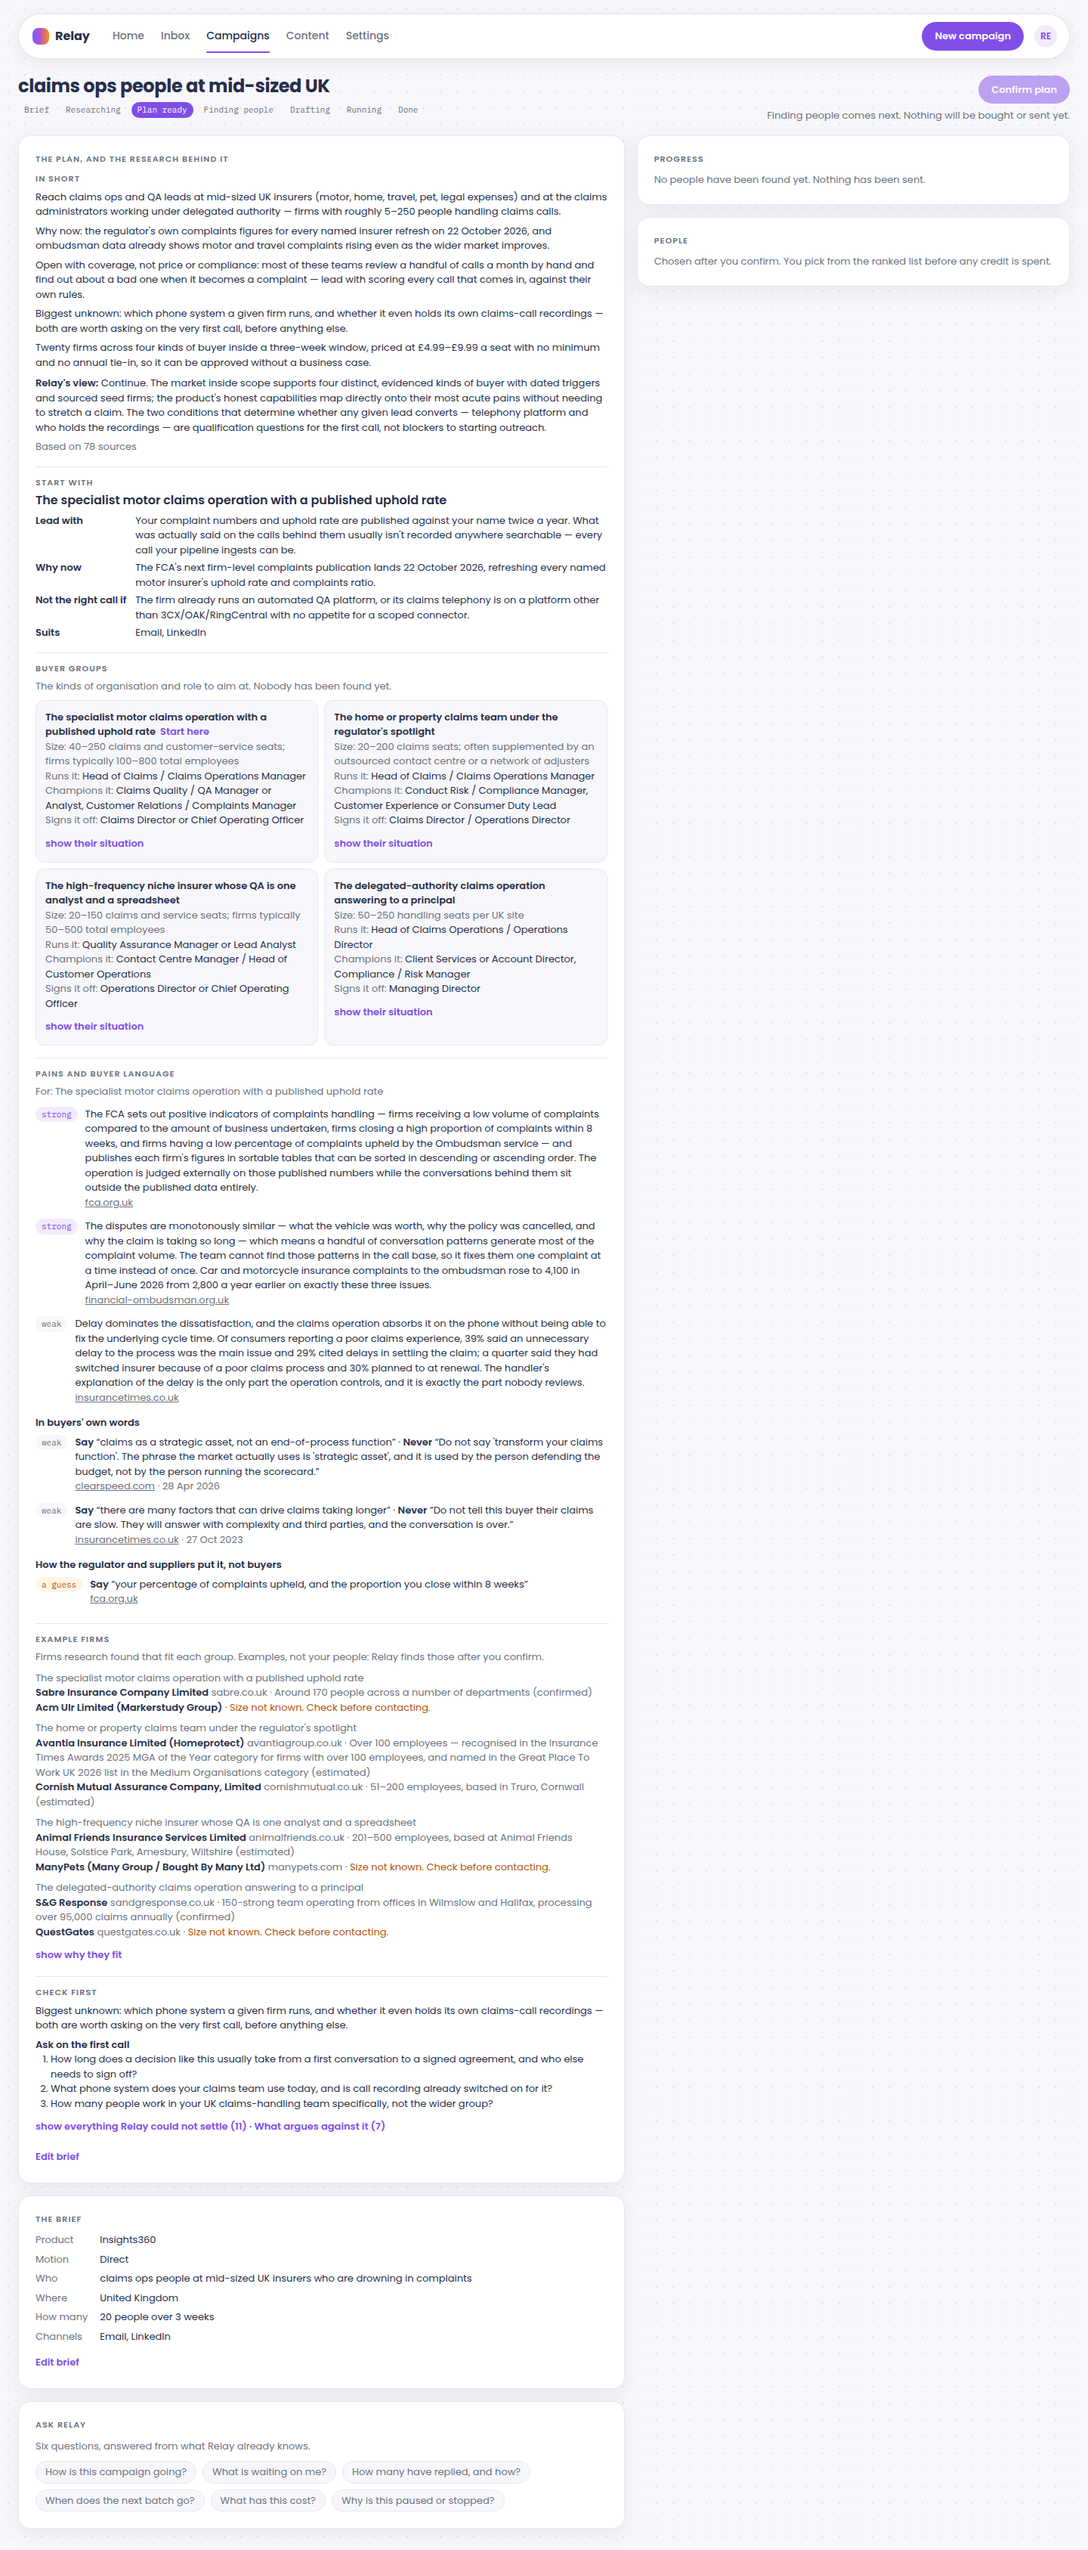
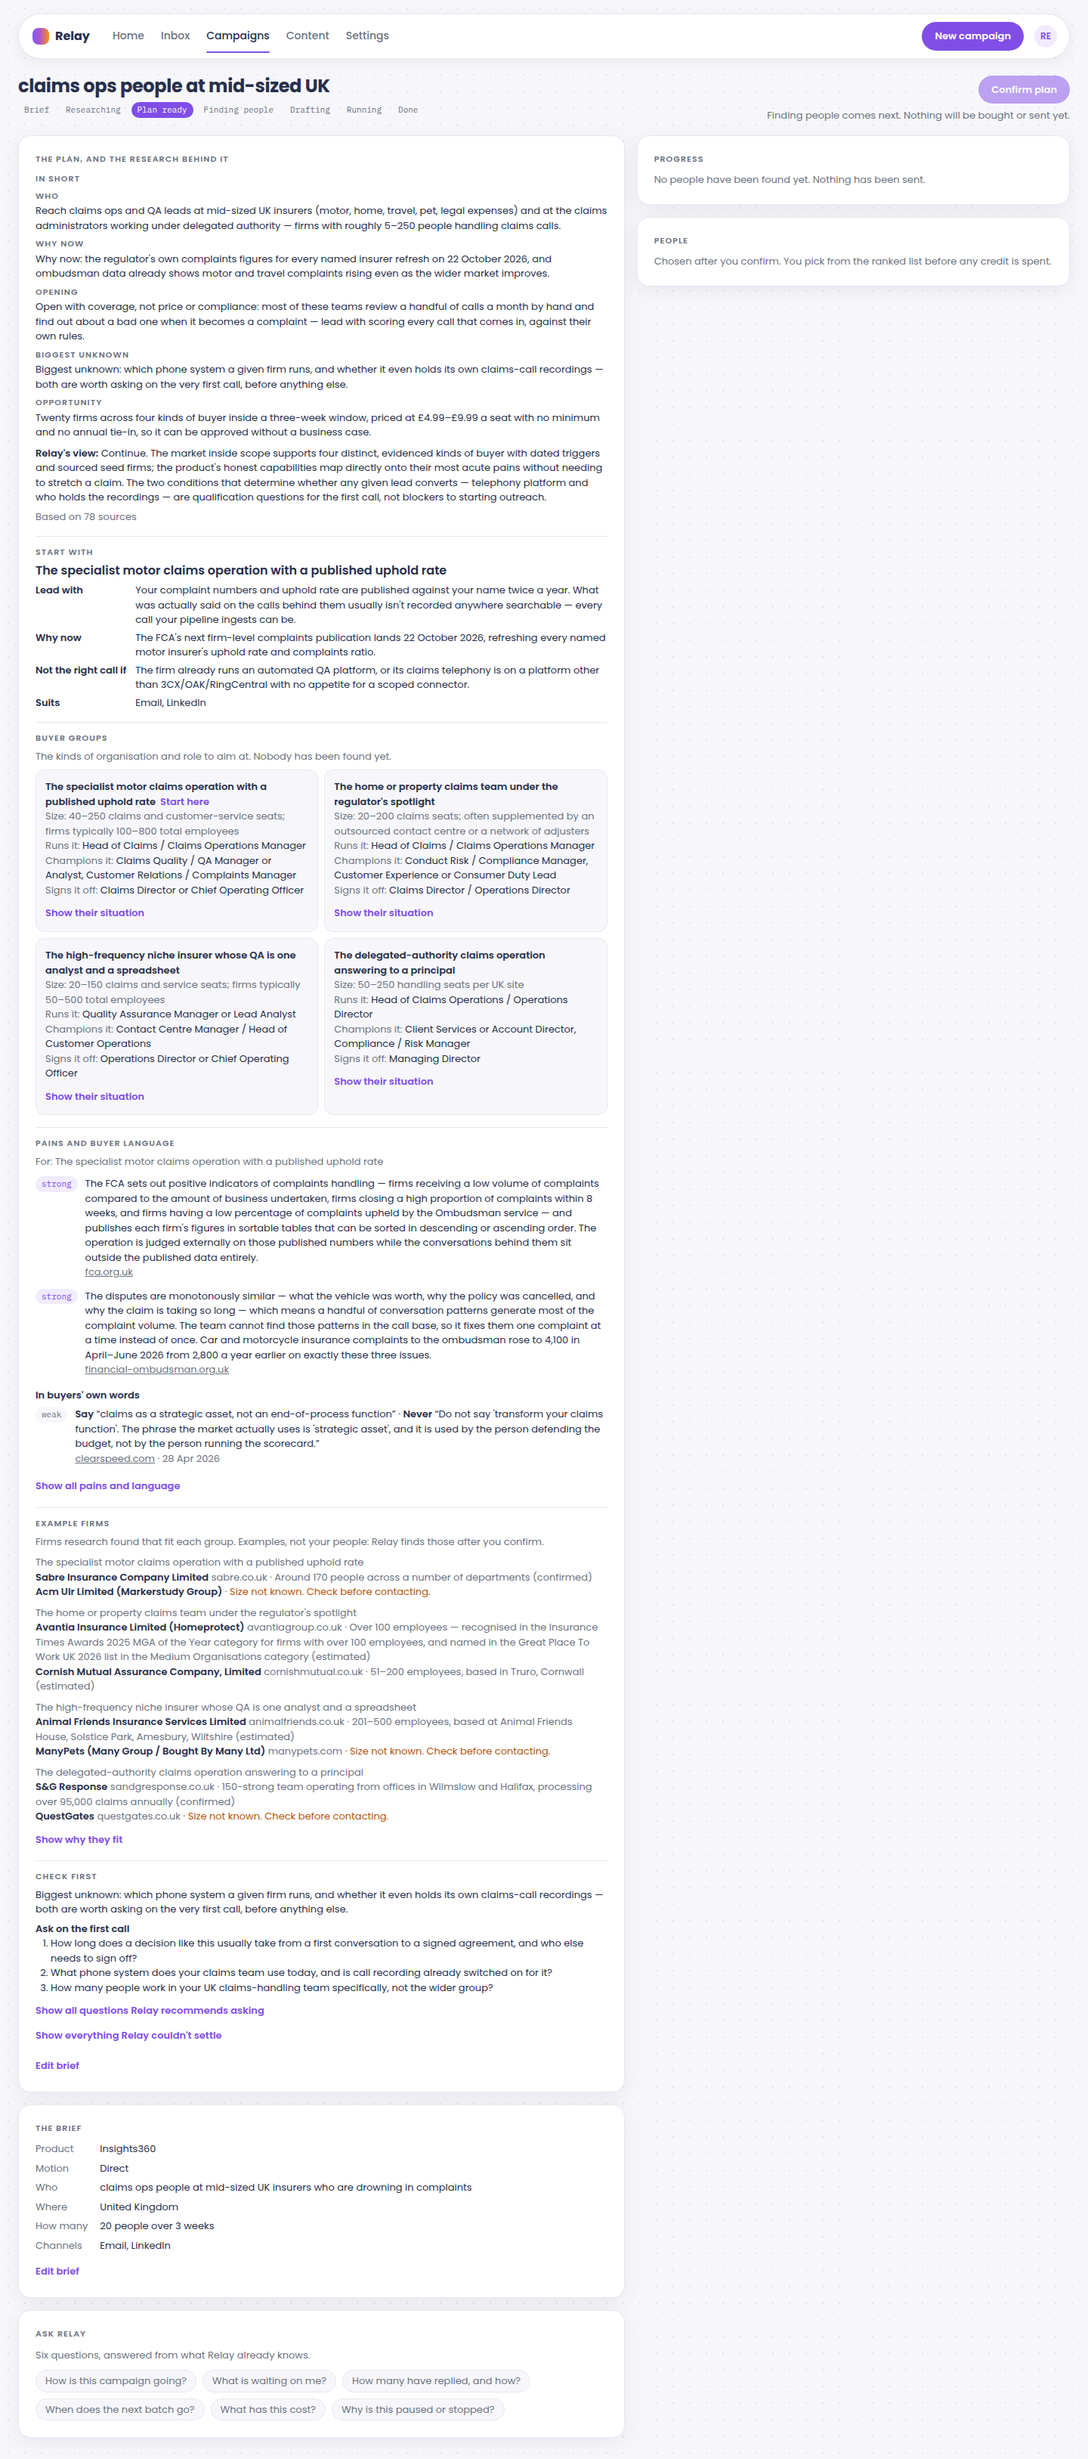
fix: Overview scan labels and lighter defaults (#18)
- In short: scan labels on the five summary lines (Who, Why now,
  Opening, Biggest unknown, Opportunity); the lines are unchanged.
- Pains and buyer language: the rank-1 group's first two pains and one
  buyer phrase by default; the rest, with regulator and supplier words
  under their own label, behind "Show all pains and language".
- Check first: the same three questions lead; "Show all questions Relay
  recommends asking" opens the rest in research's order, and "Show
  everything Relay couldn't settle" holds the gaps and contradictions.
- Screenshots refreshed.

Claude-Session: https://claude.ai/code/session_01C8nrgPJ1VTEhqxDND2KxCA

diff --git a/src/components/campaigns/Overview.tsx b/src/components/campaigns/Overview.tsx
@@ -34,6 +34,14 @@ const KINDS: Record<CampaignOverview["gaps"][number]["kind"], string> = {
   "out-of-budget": campaignsCopy.kindOutOfBudget,
 };
 
+/**
+ * What the pains part shows before "Show all pains and language": the rank-1
+ * group's first two pains (research lists them most acute first) and one of
+ * its buyers' own phrases. Everything else is one click away.
+ */
+const PAINS_FIRST = 2;
+const WORDS_FIRST = 1;
+
 /** A url's last character is never the full stop or comma that ends the sentence it sits in. */
 const URL = /(https?:\/\/[^\s)\]]*[^\s)\].,;:!?])/g;
 
@@ -72,7 +80,7 @@ function More({ label, testId, children }: { label: string; testId: string; chil
         onClick={() => setOpen(!open)}
         className="type-small inline-flex min-h-6 items-center rounded-pill font-semibold text-action focus-visible:outline-none focus-visible:ring-2"
       >
-        {open ? campaignsCopy.planHide : campaignsCopy.planShow} {label}
+        {open ? campaignsCopy.overviewHide : campaignsCopy.overviewShow} {label}
       </button>
       {open ? <div className="mt-1.5">{children}</div> : null}
     </div>
@@ -111,7 +119,12 @@ export function Overview({ overview, editHref }: { overview: CampaignOverview; e
             <ul className="grid gap-1.5">
               {overview.inShort.lines.map((line, index) => (
                 <li key={index} data-testid="in-short-line" className="type-small">
-                  {line}
+                  {c.inShortLines[index] === undefined ? null : (
+                    <span data-testid="in-short-label" className="type-label mb-0.5 block text-muted">
+                      {c.inShortLines[index]}
+                    </span>
+                  )}
+                  <span data-testid="in-short-text">{line}</span>
                 </li>
               ))}
             </ul>
@@ -182,7 +195,7 @@ export function Overview({ overview, editHref }: { overview: CampaignOverview; e
             <p className="type-small mb-1 text-muted">
               {c.forGroup} {overview.pain.groupName}
             </p>
-            {overview.pain.pains.map((pain) => (
+            {overview.pain.pains.slice(0, PAINS_FIRST).map((pain) => (
               <PackItem key={pain.id} item={pain} quoteFirst />
             ))}
             <p className="type-small mt-2 font-semibold">{c.buyerWordsLabel}</p>
@@ -190,18 +203,39 @@ export function Overview({ overview, editHref }: { overview: CampaignOverview; e
               {overview.pain.buyerWords.length === 0 ? (
                 <p className="type-small text-muted">{c.noBuyerWords}</p>
               ) : (
-                overview.pain.buyerWords.map((phrase) => <PackPhrase key={phrase.id} phrase={phrase} />)
+                overview.pain.buyerWords.slice(0, WORDS_FIRST).map((phrase) => <PackPhrase key={phrase.id} phrase={phrase} />)
               )}
             </div>
-            {overview.pain.otherVoices.length === 0 ? null : (
-              <>
-                <p className="type-small mt-2 font-semibold">{c.otherVoicesLabel}</p>
-                <div data-testid="other-voices">
-                  {overview.pain.otherVoices.map((phrase) => (
-                    <PackPhrase key={phrase.id} phrase={phrase} />
+            {overview.pain.pains.length <= PAINS_FIRST &&
+            overview.pain.buyerWords.length <= WORDS_FIRST &&
+            overview.pain.otherVoices.length === 0 ? null : (
+              <More label={c.allPainsAndLanguage} testId="pain-more">
+                <div data-testid="more-pains">
+                  {overview.pain.pains.slice(PAINS_FIRST).map((pain) => (
+                    <PackItem key={pain.id} item={pain} quoteFirst />
                   ))}
                 </div>
-              </>
+                {overview.pain.buyerWords.length <= WORDS_FIRST ? null : (
+                  <>
+                    <p className="type-small mt-2 font-semibold">{c.buyerWordsLabel}</p>
+                    <div data-testid="more-buyer-words">
+                      {overview.pain.buyerWords.slice(WORDS_FIRST).map((phrase) => (
+                        <PackPhrase key={phrase.id} phrase={phrase} />
+                      ))}
+                    </div>
+                  </>
+                )}
+                {overview.pain.otherVoices.length === 0 ? null : (
+                  <>
+                    <p className="type-small mt-2 font-semibold">{c.otherVoicesLabel}</p>
+                    <div data-testid="other-voices">
+                      {overview.pain.otherVoices.map((phrase) => (
+                        <PackPhrase key={phrase.id} phrase={phrase} />
+                      ))}
+                    </div>
+                  </>
+                )}
+              </More>
             )}
           </Part>
         )}
@@ -251,11 +285,19 @@ export function Overview({ overview, editHref }: { overview: CampaignOverview; e
                 </ol>
               </>
             )}
+            {overview.checkFirst.more.length === 0 ? null : (
+              <More label={c.allQuestions} testId="questions-more">
+                <ol start={overview.checkFirst.questions.length + 1} className="list-decimal pl-5">
+                  {overview.checkFirst.more.map((question) => (
+                    <li key={question.id} data-testid="check-first-more-question" className="type-small">
+                      {question.question}
+                    </li>
+                  ))}
+                </ol>
+              </More>
+            )}
             {overview.gaps.length === 0 && overview.contradictions.length === 0 ? null : (
-              <More
-                label={`${c.allGapsLabel} (${overview.gaps.length})${overview.contradictions.length === 0 ? "" : `${c.noteJoin}${c.againstLabel} (${overview.contradictions.length})`}`}
-                testId="gaps-more"
-              >
+              <More label={c.allGapsLabel} testId="gaps-more">
                 {overview.gaps.map((gap) => (
                   <div key={gap.id} data-testid="overview-gap" className="mb-2.5">
                     <p className="type-small">

diff --git a/tests/ui/campaigns/overview.test.tsx b/tests/ui/campaigns/overview.test.tsx
@@ -42,7 +42,8 @@ describe("the Overview", () => {
 
   it("gives the five summary lines one by one, research's view, and the real source count", () => {
     draw();
-    expect(screen.getAllByTestId("in-short-line").map((line) => line.textContent)).toEqual(summary.lines);
+    expect(screen.getAllByTestId("in-short-text").map((line) => line.textContent)).toEqual(summary.lines);
+    expect(screen.getAllByTestId("in-short-label").map((label) => label.textContent)).toEqual([...campaignsCopy.inShortLines]);
     expect(screen.getByTestId("in-short-view").textContent).toContain(completeModule(pack, "execSummary")!.verdict);
     expect(screen.getByTestId("overview-sources").textContent).toBe(`${campaignsCopy.basedOn} 78 ${campaignsCopy.fromSources}`);
   });
@@ -61,9 +62,22 @@ describe("the Overview", () => {
     expect(pain.textContent).not.toContain(summary.lines[0]!);
     const buyerWords = within(pain).getByTestId("buyer-words").textContent ?? "";
     for (const phrase of overview.pain!.otherVoices) expect(buyerWords).not.toContain(phrase.say);
+    fireEvent.click(screen.getByTestId("pain-more"));
     const others = within(pain).getByTestId("other-voices").textContent ?? "";
     for (const phrase of overview.pain!.otherVoices) expect(others).toContain(phrase.say);
     expect(pain.textContent).toContain(campaignsCopy.otherVoicesLabel);
+  });
+
+  it("shows two pains and one buyer phrase first, and the rest behind one show", () => {
+    draw();
+    const pain = screen.getByTestId("overview-pain");
+    expect(within(pain).getAllByTestId("pack-item")).toHaveLength(3);
+    expect(within(pain).queryByTestId("other-voices")).toBeNull();
+    expect(screen.getByTestId("pain-more").textContent).toBe(`${campaignsCopy.overviewShow} ${campaignsCopy.allPainsAndLanguage}`);
+
+    fireEvent.click(screen.getByTestId("pain-more"));
+    const { pains, buyerWords, otherVoices } = overview.pain!;
+    expect(within(pain).getAllByTestId("pack-item")).toHaveLength(pains.length + buyerWords.length + otherVoices.length);
   });
 
   it("shows research's example firms as examples, with an unknown size said as unknown", () => {
@@ -76,7 +90,11 @@ describe("the Overview", () => {
 
   it("asks at most three questions first, and shows no url and no search anywhere", () => {
     draw();
-    expect(screen.getAllByTestId("check-first-question").length).toBeLessThanOrEqual(3);
+    expect(screen.getAllByTestId("check-first-question")).toHaveLength(3);
+    expect(screen.queryAllByTestId("check-first-more-question")).toHaveLength(0);
+    fireEvent.click(screen.getByTestId("questions-more"));
+    expect(screen.getAllByTestId("check-first-more-question").map((item) => item.textContent)).toEqual(overview.checkFirst.more.map((q) => q.question));
+    expect(screen.getByTestId("gaps-more").textContent).toBe(`${campaignsCopy.overviewShow} ${campaignsCopy.allGapsLabel}`);
     expect(screen.getByTestId("overview-check-first").textContent).toContain(summary.lines[3]!);
     openAll();
     const text = screen.getByTestId("overview").textContent ?? "";

diff --git a/src/lib/campaigns/overview.ts b/src/lib/campaigns/overview.ts
@@ -25,8 +25,8 @@ import type { CampaignOverview } from "./types";
  */
 const BIGGEST_UNKNOWN = 3;
 
-/** How many of the rank-1 group's pains the Overview shows. Research lists them most acute first. */
-const PAINS_SHOWN = 3;
+/** How many first-call questions lead Check first. */
+const FIRST_QUESTIONS = 3;
 
 export function overviewOf(pack: PackShape): CampaignOverview {
   const summary = completeModule(pack, "repSummary");
@@ -49,6 +49,8 @@ export function overviewOf(pack: PackShape): CampaignOverview {
   const topName = top === undefined ? undefined : groupName(pack, top.archetypeId);
   const pains = top === undefined ? [] : (completeModule(pack, "m05")?.perArchetype.find((entry) => entry.archetypeId === top.archetypeId)?.pains ?? []);
   const language = top === undefined ? { buyer: [], others: [] } : buyerLanguage(pack, top.archetypeId);
+  // Every question research recommends, in its own order: the first three lead, the rest are one click away.
+  const questions = verificationQuestions(pack, Number.POSITIVE_INFINITY);
 
   return {
     inShort: { lines: [...(summary?.lines ?? [])], verdict: completeModule(pack, "execSummary")?.verdict ?? null },
@@ -61,9 +63,13 @@ export function overviewOf(pack: PackShape): CampaignOverview {
     pain:
       topName === undefined || pains.length === 0
         ? null
-        : { groupName: topName, pains: pains.slice(0, PAINS_SHOWN), buyerWords: language.buyer, otherVoices: language.others },
+        : { groupName: topName, pains: [...pains], buyerWords: language.buyer, otherVoices: language.others },
     firms: seedFirmsByGroup(pack).map(({ groupName: name, firms }) => ({ groupName: name, firms })),
-    checkFirst: { summary: summary?.lines[BIGGEST_UNKNOWN] ?? null, questions: verificationQuestions(pack, 3) },
+    checkFirst: {
+      summary: summary?.lines[BIGGEST_UNKNOWN] ?? null,
+      questions: questions.slice(0, FIRST_QUESTIONS),
+      more: questions.slice(FIRST_QUESTIONS),
+    },
     gaps: researchGaps(pack),
     contradictions: researchContradictions(pack),
     // A stopped pack is partial too, and has its own card; this is only a plan a limit cut short.

diff --git a/src/lib/campaigns/types.ts b/src/lib/campaigns/types.ts
@@ -73,12 +73,16 @@ export type CampaignOverview = {
     roles: { part: "signs" | "champions" | "runs"; title: string }[];
     first: boolean;
   }[];
-  /** The rank-1 group's pains (m05), its buyers' own words (m06), and anyone else's words kept apart. */
+  /** The rank-1 group's pains (m05, most acute first), its buyers' own words (m06), and anyone else's words kept apart. */
   pain: { groupName: string; pains: Item[]; buyerWords: Phrase[]; otherVoices: Phrase[] } | null;
   /** Research's example firms (m04), each with the group it was found for and its size as research knows it. */
   firms: { groupName: string; firms: SeedFirm[] }[];
-  /** The biggest unknown, and at most three questions to settle first (m18). */
-  checkFirst: { summary: string | null; questions: { id: string; question: string; whyItMatters: string }[] };
+  /** The biggest unknown, the three questions to settle first (m18), and the rest research recommends asking. */
+  checkFirst: {
+    summary: string | null;
+    questions: { id: string; question: string; whyItMatters: string }[];
+    more: { id: string; question: string; whyItMatters: string }[];
+  };
   /** Every gap and everything that argues against the case, whole, for the research view to come. */
   gaps: ResearchGap[];
   contradictions: ResearchContradiction[];

diff --git a/tests/lib/campaignOverview.test.ts b/tests/lib/campaignOverview.test.ts
@@ -70,7 +70,7 @@ describe("Start with", () => {
 describe("Pains and buyer language", () => {
   it("is the rank-1 group's own pains, not the summary's who-to-reach line", () => {
     const own = completeModule(pack, "m05")!.perArchetype.find((p) => p.archetypeId === rankOne.archetypeId)!.pains;
-    expect(overview.pain?.pains.map((pain) => pain.id)).toEqual(own.slice(0, 3).map((pain) => pain.id));
+    expect(overview.pain?.pains.map((pain) => pain.id)).toEqual(own.map((pain) => pain.id));
     expect(JSON.stringify(overview.pain)).not.toContain(summary.lines[0]!);
   });
 
@@ -106,6 +106,9 @@ describe("the rest of the Overview", () => {
       expect(question).not.toMatch(/https?:\/\//);
     }
     expect(verificationQuestions(pack, 1)).toHaveLength(1);
+    // The rest research recommends, in the same order, one click away.
+    expect([...overview.checkFirst.questions, ...overview.checkFirst.more].map((q) => q.question)).toEqual(asked);
+    expect(overview.checkFirst.more).toHaveLength(asked.length - 3);
     expect(overview.checkFirst.summary).toBe(summary.lines[3]);
     expect(overview.checkFirst.summary).toMatch(/^Biggest unknown/);
   });

diff --git a/src/lib/copy/campaigns.ts b/src/lib/copy/campaigns.ts
@@ -182,6 +182,13 @@ export const campaignsCopy = {
    * are research's examples: nobody has been found before the rep confirms.
    */
   inShortLabel: "In short",
+  /** A scan label for each rep summary line, by place: who to reach, why now, what to open with, the biggest unknown, the size of it. */
+  inShortLines: ["Who", "Why now", "Opening", "Biggest unknown", "Opportunity"],
+  /** The Overview's disclosures open more of the same part in place. */
+  overviewShow: "Show",
+  overviewHide: "Hide",
+  allPainsAndLanguage: "all pains and language",
+  allQuestions: "all questions Relay recommends asking",
   inShortView: "Relay's view:",
   basedOn: "Based on",
   startWithLabel: "Start with",
@@ -207,7 +214,7 @@ export const campaignsCopy = {
   sizeUnknown: "Size not known. Check before contacting.",
   checkFirstLabel: "Check first",
   checkFirstAsk: "Ask on the first call",
-  allGapsLabel: "everything Relay could not settle",
+  allGapsLabel: "everything Relay couldn't settle",
   againstLabel: "What argues against it",
   whyItMatters: "Why it matters:",
   askOnCall: "Ask:",

diff --git a/docs/design/task-18/README.md b/docs/design/task-18/README.md
@@ -6,12 +6,12 @@ A real campaign's finished plan is now the **Overview**, in six parts. Each part
 
 | Part | Read from |
 |---|---|
-| In short | The rep summary's five lines, one statement each, and research's view of the market; the source count from the pack's own sources |
+| In short | The rep summary's five lines, one statement each under a scan label (Who, Why now, Opening, Biggest unknown, Opportunity), and research's view of the market; the source count from the pack's own sources |
 | Start with | Research's rank-1 campaign: the group, the lead angle (looked up when named by id), its own dated reason, and when it is the wrong call |
 | Buyer groups | The four kinds of buyer, ranked as research ranks the campaigns: size, and who runs it, champions it and signs it off. No people found |
-| Pains and buyer language | The rank-1 group's own pains; its buyers' words; a regulator's or supplier's words only under their own label |
+| Pains and buyer language | The rank-1 group's first two pains and one of its buyers' own phrases; "Show all pains and language" opens the rest, with a regulator's or supplier's words only under their own label |
 | Example firms | The eight firms research sized, with their group and their size as research knows it; an unknown size says so |
-| Check first | The biggest unknown, and at most three questions to ask on the first call. Every gap and everything that argues against the case open as separate findings, with each link shown as its host |
+| Check first | The biggest unknown and the first three questions to ask on the first call, in research's order. "Show all questions Relay recommends asking" opens the rest; "Show everything Relay couldn't settle" opens every gap and everything that argues against the case as separate findings, with each link shown as its host |
 
 The plan cards stay for the sample campaigns, which draw the states that need lead gen first. Research's own code and contract are unchanged.
 
